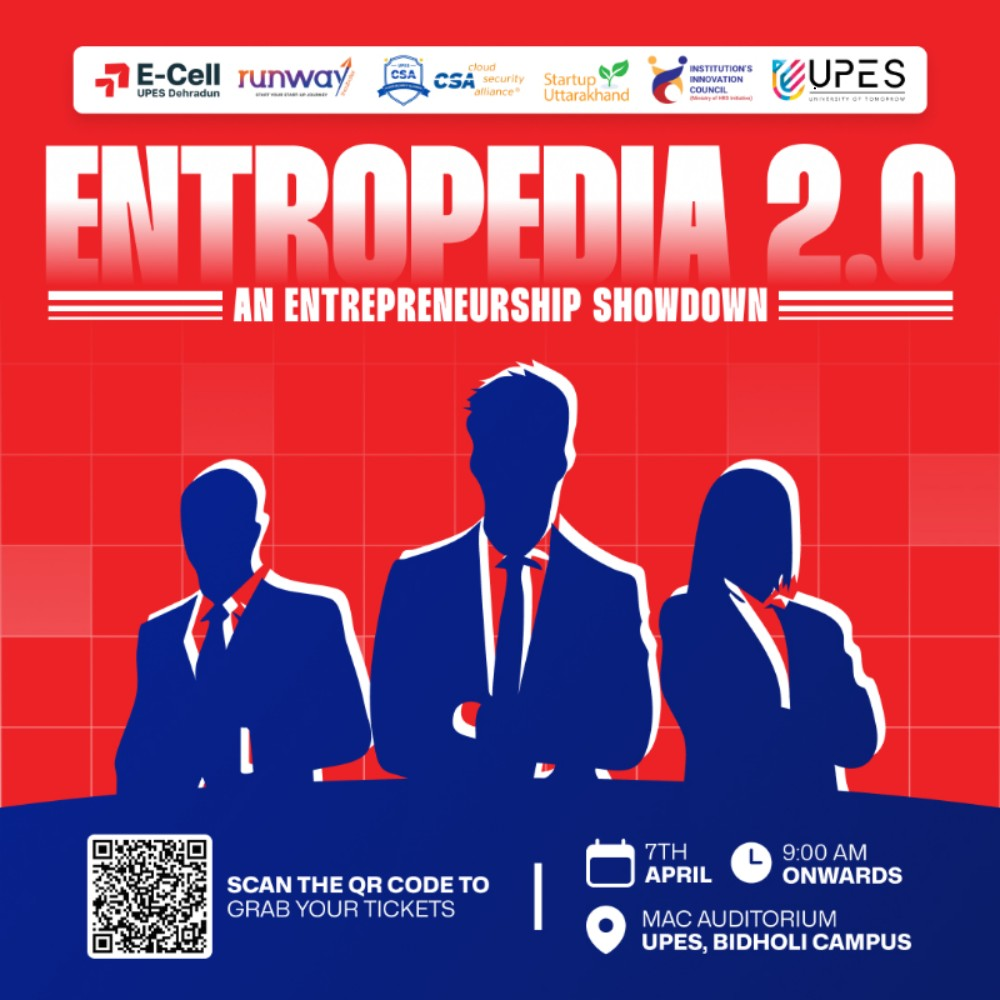
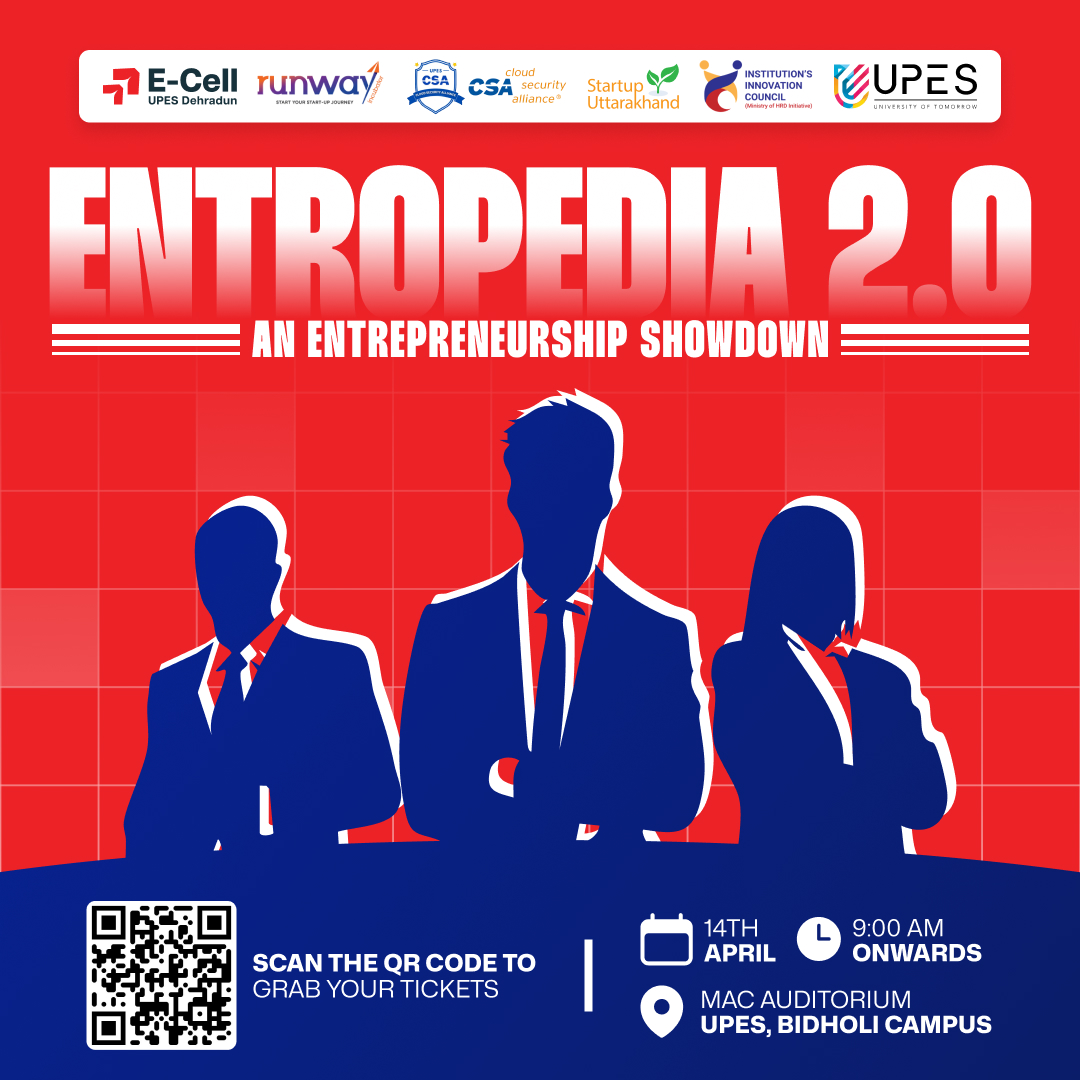
fixed

diff --git a/src/pages/EventRegistrationPage/EventRegistrationPage/RegistrationPage/RegistrationPage.module.css b/src/pages/EventRegistrationPage/EventRegistrationPage/RegistrationPage/RegistrationPage.module.css
@@ -156,6 +156,10 @@
 }
 
 @media screen and (max-width: 1000px) {
+  .mainDiv {
+    height: 100vh !important;
+  }
+
   .formSideImage img {
     width: max(150px, 15dvw);
     height: max(150px, 15dvw);
@@ -163,7 +167,7 @@
 
   .registrationForm {
     flex-direction: column;
-    min-height: 110dvh;
+    height: 110dvh !important;
     justify-content: flex-start;
     width: max(380px, 60dvw);
   }
@@ -183,7 +187,7 @@
   }
 
   .formPageDiv {
-    min-height: 100vh;
+    height: 100vh !important;
     min-height: -webkit-fill-available;
     display: flex;
     justify-content: flex-start;

diff --git a/src/pages/HomePage/HomePage.jsx b/src/pages/HomePage/HomePage.jsx
@@ -78,7 +78,7 @@ const HomePage = () => {
                 <li>🎓 Exciting Prizes & Incubation Support</li>
               </ul>
               <p>
-                📅 <strong>Date:</strong> 7Th April 2025
+                📅 <strong>Date:</strong> 14Th April 2025
               </p>
               <p>
                 📍 <strong>Venue:</strong> MAC, UPES Bidholi Campus
